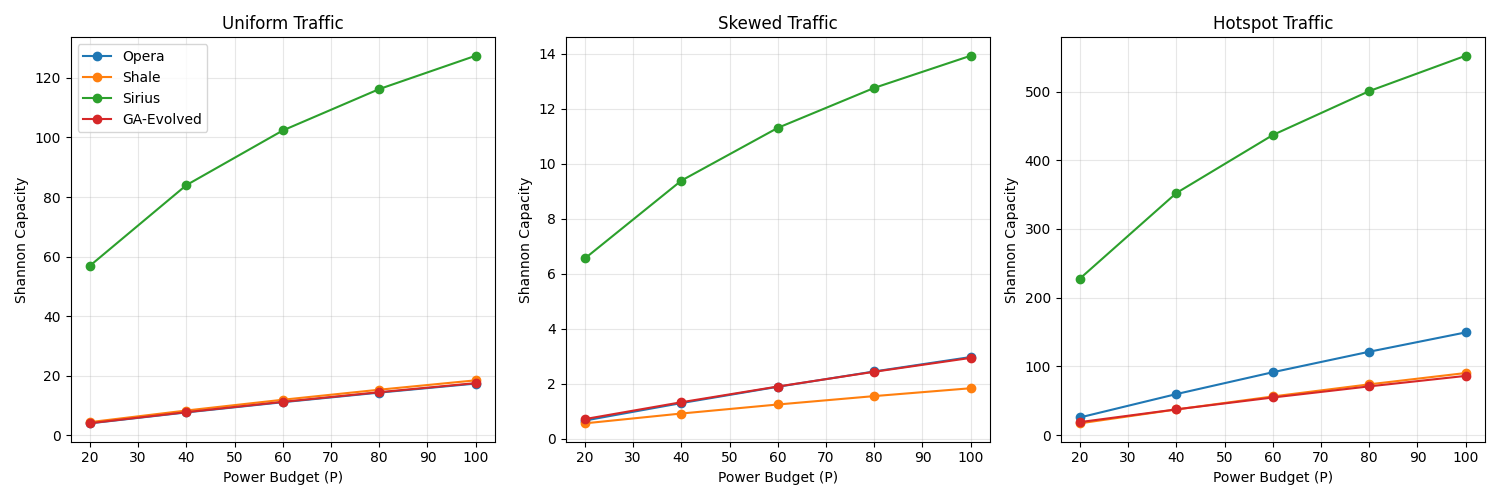
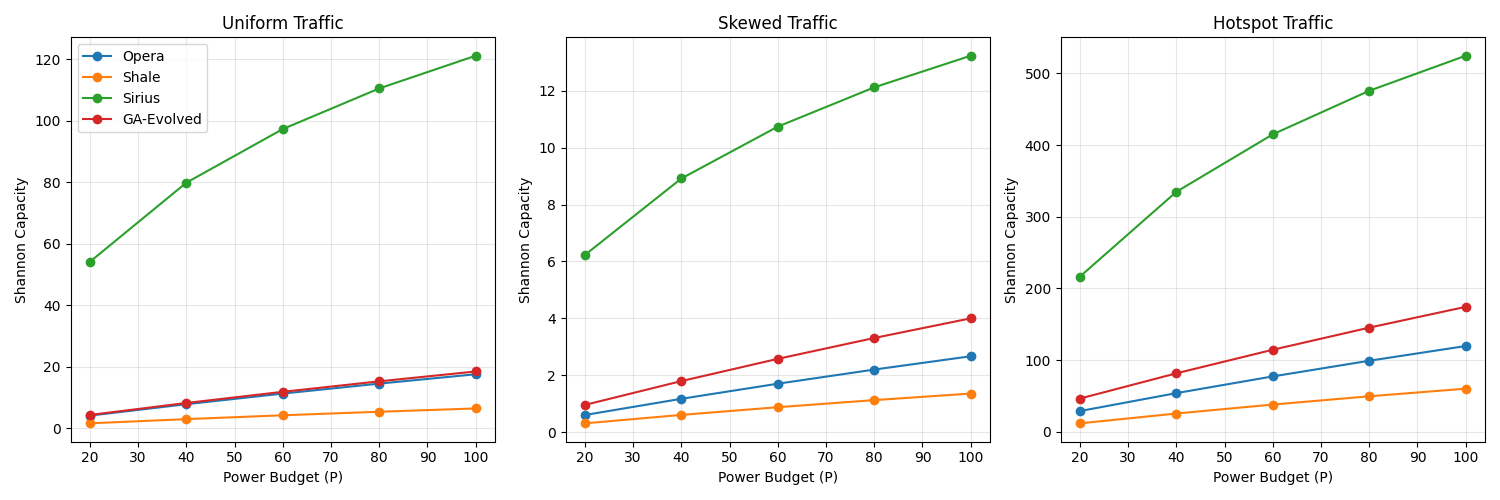
shale debug

diff --git a/Traffic_Benchmarks.py b/Traffic_Benchmarks.py
@@ -106,23 +106,22 @@ def calculate_topology_capacity(adj_list, traffic_matrix, total_power=50, archit
             
             if architecture_type == "opera":
                 # Opera Hybrid Model (92% Bulk, 8% Short)
-                # Bulk: 1-hop, wait for circuit (98% efficient due to reconfig delay)
-                # Short: Expander (hops > 1), immediate
                 f_bulk = 0.92
                 f_short = 0.08
-                reconfig_efficiency = 0.98 # 1 - delta/slot_duration (1/50)
-                
-                # Bulk segment (Always treats as 1-hop but weighted by 0.92)
-                # Note: In real waterfilling over time, we'd wait. Here we're estimating aggregate.
-                cap_bulk = (f_bulk * rate * reconfig_efficiency) / 1.0
-                
-                # Short segment (Uses actual hops, weighted by 0.08)
-                cap_short = (f_short * rate) / max(1, hops)
-                
-                capacity += cap_bulk + cap_short
+                reconfig_eff = 0.98
+                capacity += (f_bulk * rate * reconfig_eff) + (f_short * rate / max(1, hops))
+            elif architecture_type == "shale":
+                # Shale VLB Model: Every flow is sprayed across h intermediate nodes
+                # Effective capacity is divided by (h + 1) hops. 
+                # For our base analysis, we'll assume h=2 (2 spraying hops + 1 deliver).
+                h_shale = 2
+                capacity += rate / (h_shale + 1)
+            elif architecture_type == "sirius":
+                # Sirius Model: Direct 1-hop path using dedicated wavelengths over time
+                # Very efficient direct transmission, but slightly limited by AWGR insertion loss (approx 95% eff)
+                capacity += rate * 0.95
             else:
-                # For Sirius (slotted) or others, handles slotting in its own generation phase
-                # or assumes cut-through / parallel delivery if not specified
+                # Default (e.g. GA)
                 capacity += rate
             
     return capacity

diff --git a/Waterfilling_Traffic_Benchmark.py b/Waterfilling_Traffic_Benchmark.py
@@ -42,7 +42,9 @@ def run_comprehensive_benchmark():
         plt.subplot(1, 3, i)
         for name, adj in archs.items():
             caps = []
-            arch_type = "opera" if name == "Opera" else None
+            arch_type = name.lower() if name in ["Opera", "Shale", "Sirius"] else None
+            if name == "GA-Evolved": arch_type = None
+            
             for p in powers:
                 cap = calculate_topology_capacity(adj, traffic_matrix, total_power=p, architecture_type=arch_type)
                 caps.append(cap)
